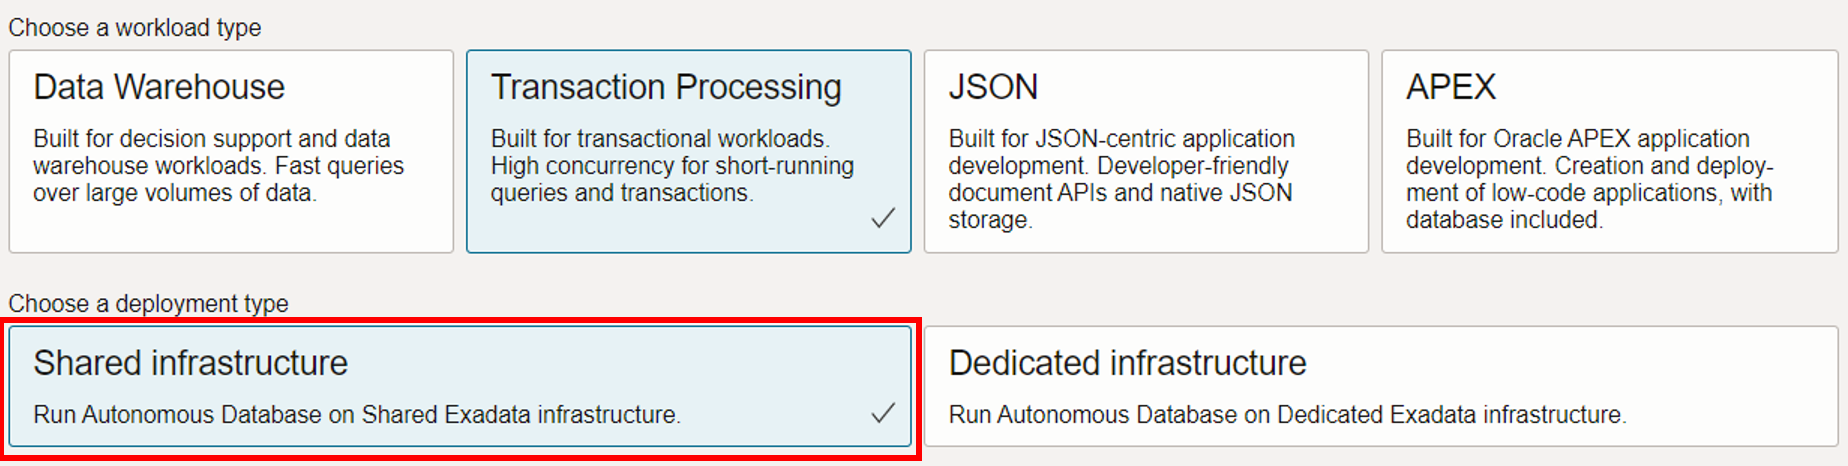
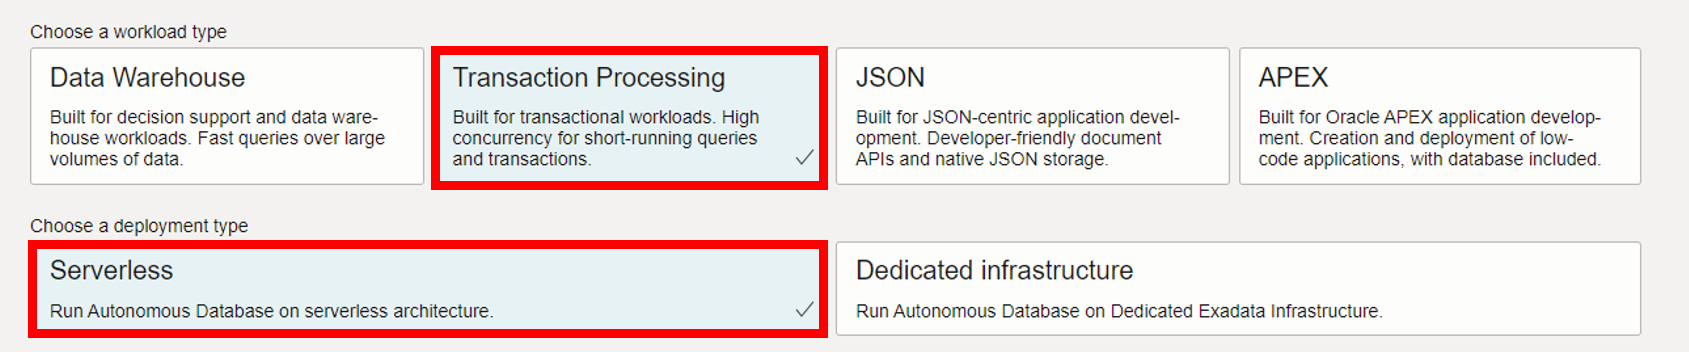
workshop #2920, #4841, 34861, #11041, #11091, #11092: update screenshots

Changed region(s): [[0.0, 0.0312, 1.0, 0.5625], [0.0, 0.625, 1.0, 1.0]]

diff --git a/ggs-bidirectional-replication/adb/adb.md b/ggs-bidirectional-replication/adb/adb.md
@@ -62,8 +62,6 @@ You can click View VCN Details and see both a Public and Private subnet were cre
 
 4.  Under **Choose a workload type**, select **Transaction Processing**.
 
-    ![Workload type options](https://oracle-livelabs.github.io/goldengate/ggs-common/adb/images/02-04-workload.png " ")
-
 5.  Under **Choose a deployment type**, select **Serverless**.
 
     ![Deployment type options](https://oracle-livelabs.github.io/goldengate/ggs-common/adb/images/02-05-deployment.png " ")
@@ -149,11 +147,9 @@ You can click View VCN Details and see both a Public and Private subnet were cre
 
 4.  Under **Choose a workload type**, select **Data Warehouse**.
 
-    ![Workload type options](https://oracle-livelabs.github.io/goldengate/ggs-common/adb/images/02-04-workload.png " ")
-
 5.  Under **Choose a deployment type**, select **Serverless**.
 
-    ![Deployment type options](https://oracle-livelabs.github.io/goldengate/ggs-common/adb/images/02-05-deployment.png " ")
+    ![Deployment type options](https://oracle-livelabs.github.io/goldengate/ggs-common/adb/images/02-05-deployment-dw.png " ")
 
 6.  Under **Configure the database**, leave **Choose database version** and **Storage (TB)** and **OCPU Count** as they are.
 

diff --git a/ggs-to-ogg/adb/adb.md b/ggs-to-ogg/adb/adb.md
@@ -59,8 +59,6 @@ You can click **View VCN Details** and to verify both a Public and Private subne
 
 4.  Under **Choose a workload type**, select **Transaction Processing**.
 
-    ![Workload type options](https://oracle-livelabs.github.io/goldengate/ggs-common/adb/images/02-04-workload.png " ")
-
 5.  Under **Choose a deployment type**, select **Serverless**.
 
     ![Deployment type options](https://oracle-livelabs.github.io/goldengate/ggs-common/adb/images/02-05-deployment.png " ")
@@ -142,11 +140,9 @@ You can click **View VCN Details** and to verify both a Public and Private subne
 
 4.  Under **Choose a workload type**, select **Data Warehouse**.
 
-    ![Workload type options](https://oracle-livelabs.github.io/goldengate/ggs-common/adb/images/02-04-workload.png " ")
-
 5.  Under **Choose a deployment type**, select **Serverless**.
 
-    ![Deployment type options](https://oracle-livelabs.github.io/goldengate/ggs-common/adb/images/02-05-deployment.png " ")
+    ![Deployment type options](https://oracle-livelabs.github.io/goldengate/ggs-common/adb/images/02-05-deployment-dw.png " ")
 
 6.  Under **Configure the database**, leave **Choose database version** and **Storage (TB)** and **OCPU Count** as they are.
 

diff --git a/oci-ggs/adb/adb.md b/oci-ggs/adb/adb.md
@@ -62,8 +62,6 @@ You can click View VCN Details and see both a Public and Private subnet were cre
 
 4.  Under **Choose a workload type**, select **Transaction Processing**.
 
-    ![Workload type options](https://oracle-livelabs.github.io/goldengate/ggs-common/adb/images/02-04-workload.png " ")
-
 5.  Under **Choose a deployment type**, select **Serverless**.
 
     ![Deployment type options](https://oracle-livelabs.github.io/goldengate/ggs-common/adb/images/02-05-deployment.png " ")
@@ -149,11 +147,9 @@ You can click View VCN Details and see both a Public and Private subnet were cre
 
 4.  Under **Choose a workload type**, select **Data Warehouse**.
 
-    ![Workload type options](https://oracle-livelabs.github.io/goldengate/ggs-common/adb/images/02-04-workload.png " ")
-
 5.  Under **Choose a deployment type**, select **Serverless**.
 
-    ![Deployment type options](https://oracle-livelabs.github.io/goldengate/ggs-common/adb/images/02-05-deployment.png " ")
+    ![Deployment type options](https://oracle-livelabs.github.io/goldengate/ggs-common/adb/images/02-05-deployment-dw.png " ")
 
 6.  Under **Configure the database**, leave **Choose database version** and **Storage (TB)** and **OCPU Count** as they are.
 

diff --git a/mysql-ggs/setup/setup.md b/mysql-ggs/setup/setup.md
@@ -220,6 +220,8 @@ If working within the same Home region for OCI GoldenGate and OCI MySQL Database
 
 6.  Under **Choose a deployment type**, select **Serverless**.
 
+    ![Workload and deployment type options](https://oracle-livelabs.github.io/goldengate/ggs-common/adb/images/02-05-deployment-dw.png " ")
+
 7.  Under Create administrator credentials, enter a password and confirm the password. Note the password down in a notepad, you will need it later.
 
 8.  Under **Choose a license type**, select **License Included**.

diff --git a/atp-objectstorage/adb/adb.md b/atp-objectstorage/adb/adb.md
@@ -62,8 +62,6 @@ You can click View VCN Details and see both a Public and Private subnet were cre
 
 4.  Under **Choose a workload type**, select **Transaction Processing**.
 
-    ![Workload type options](https://oracle-livelabs.github.io/goldengate/ggs-common/adb/images/02-04-workload.png " ")
-
 5.  Under **Choose a deployment type**, select **Serverless**.
 
     ![Deployment type options](https://oracle-livelabs.github.io/goldengate/ggs-common/adb/images/02-05-deployment.png " ")

diff --git a/ogg-to-ggs/adb/adb.md b/ogg-to-ggs/adb/adb.md
@@ -60,8 +60,6 @@ You can click View VCN Details and see both a Public and Private subnet were cre
 
 4.  Under **Choose a workload type**, select **Transaction Processing**.
 
-    ![Workload type options](https://oracle-livelabs.github.io/goldengate/ggs-common/adb/images/02-04-workload.png " ")
-
 5.  Under **Choose a deployment type**, select **Serverless**.
 
     ![Deployment type options](https://oracle-livelabs.github.io/goldengate/ggs-common/adb/images/02-05-deployment.png " ")
